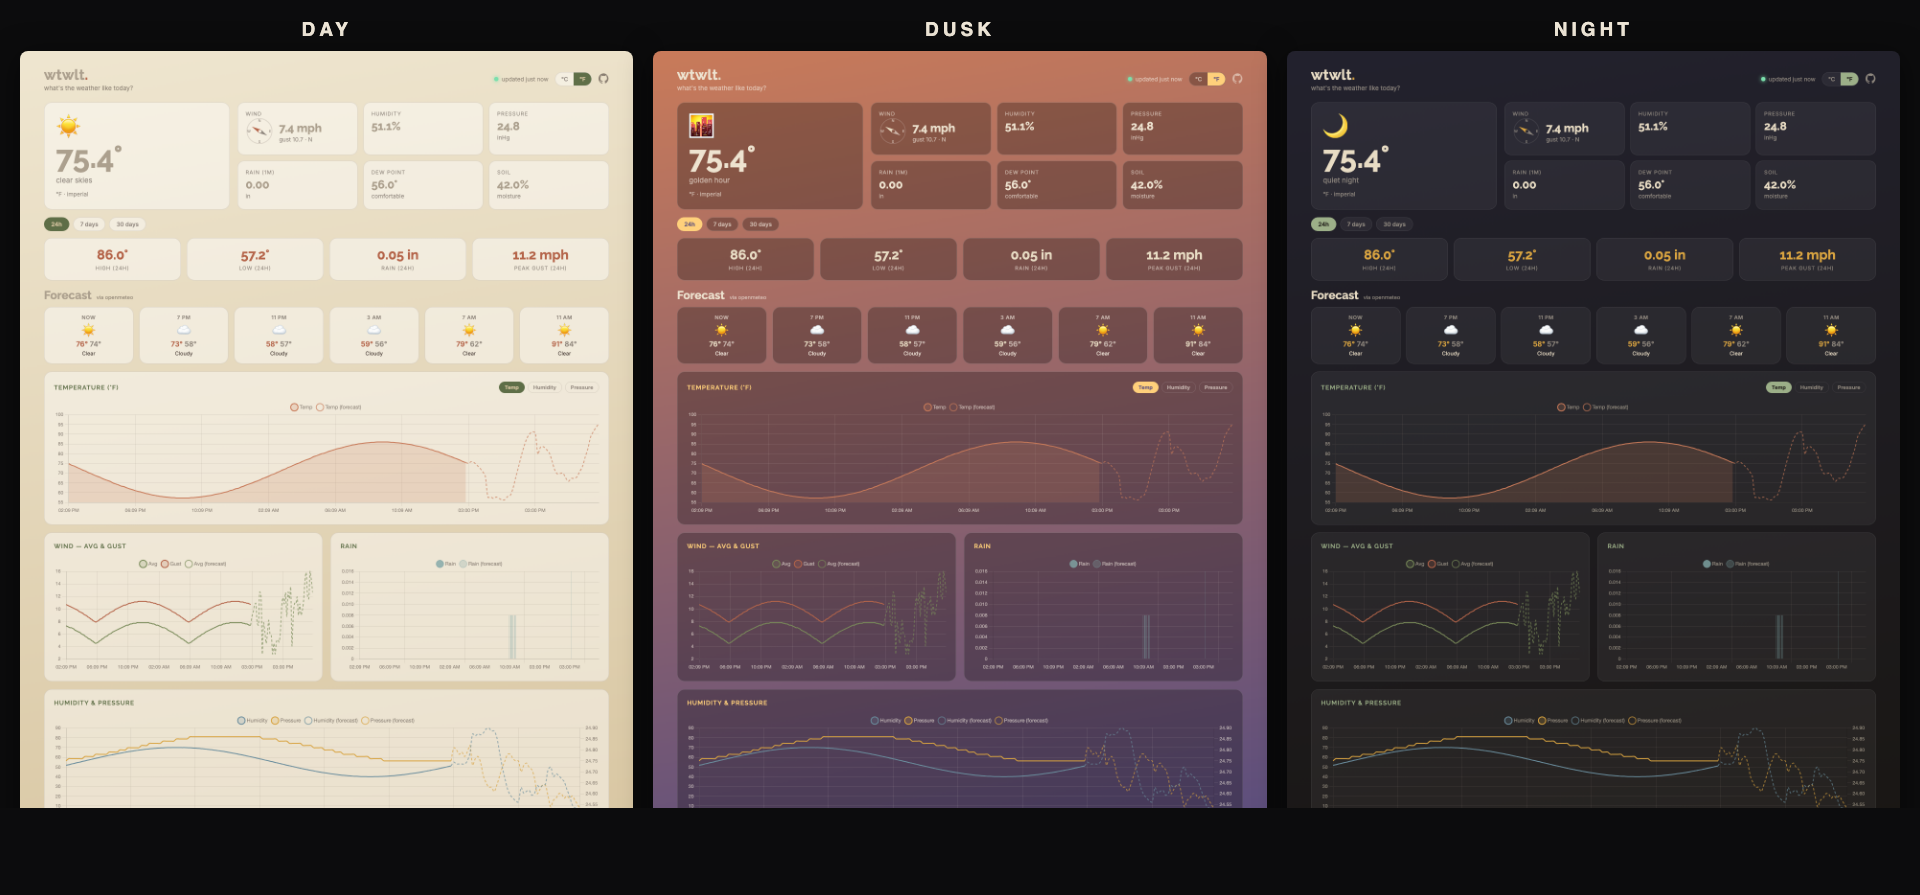
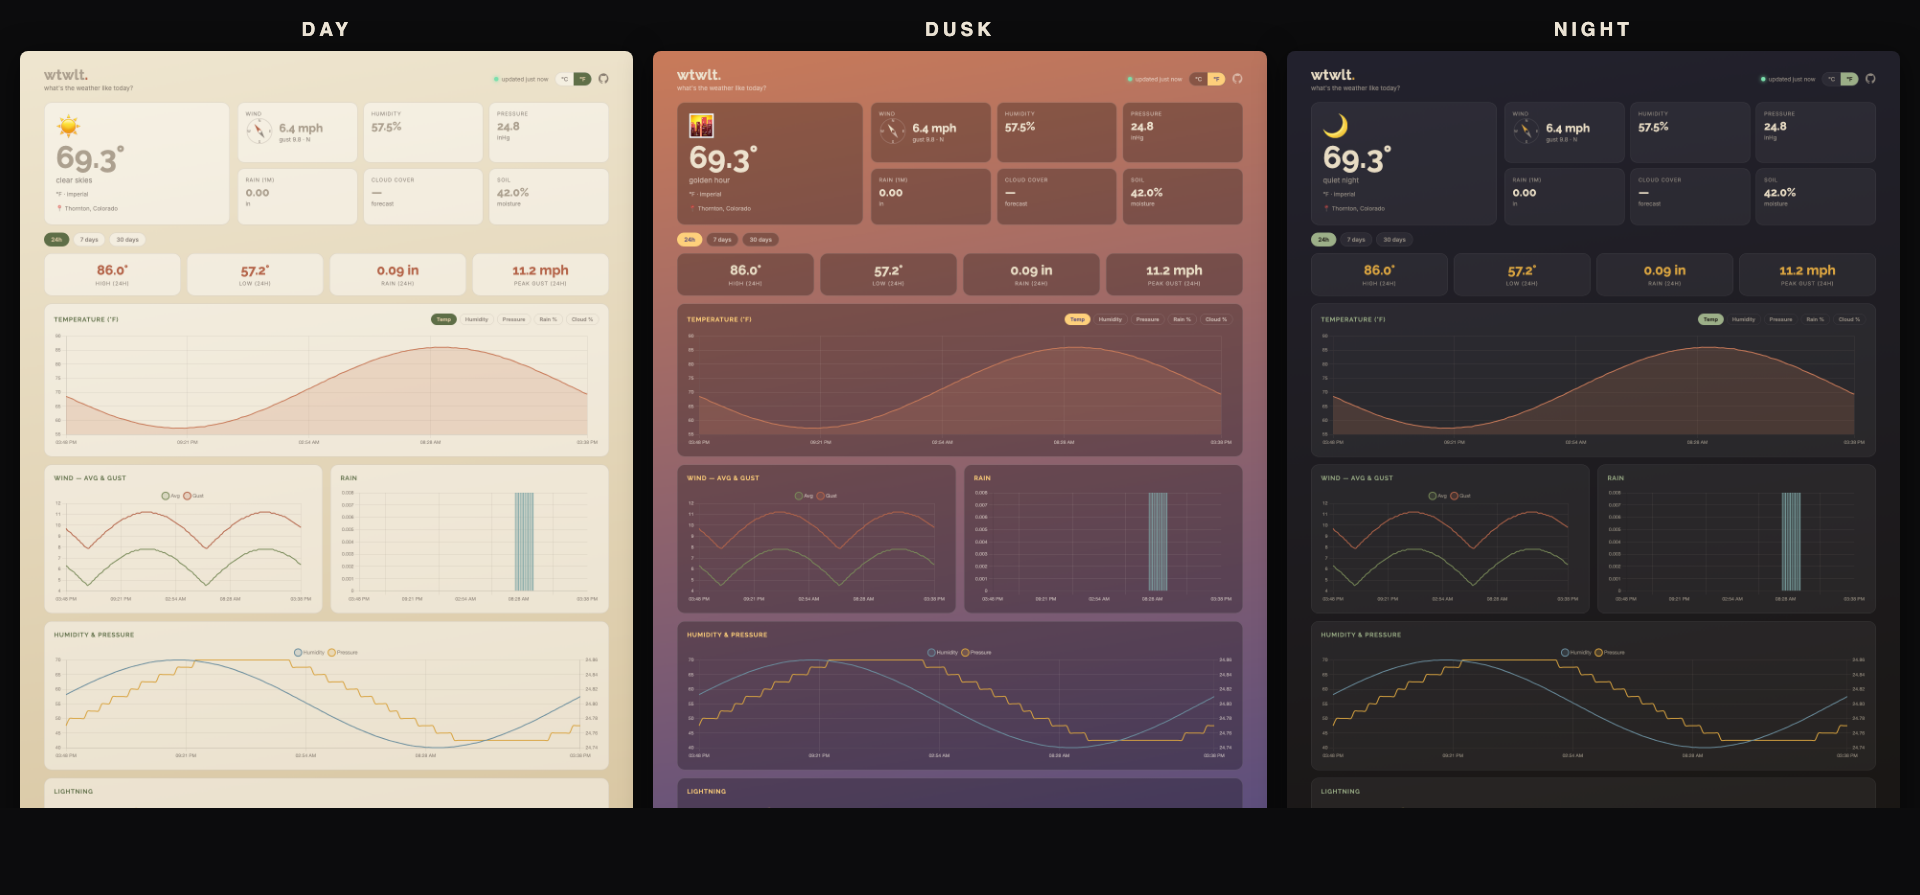
📖 README cleanup: Mermaid architecture, forecast section, fresh montage
- Replace the drifting ASCII architecture diagram with a Mermaid flowchart
  (renders aligned on GitHub) that also shows the keyless forecast provider.
- Add a Forecast section (overlay, tiles, rain-chance/cloud lead charts,
  coarse geocoded location, provider/coords config, coords never sent to client).
- Fix the stale pin map (wind speed GPIO 14, soil GPIO 34 + power-gate, AS3935
  INT GPIO 17) to match config.h; drop the unpopulated VEML6075 row.
- Regenerate the day/dusk/night themes montage from the current dashboard
  (cloud-cover tile, location label, forecast strip).

diff --git a/README.md b/README.md
@@ -17,17 +17,22 @@ which logs them to SQLite and serves an earth-toned dashboard + JSON API.
 
 ## Architecture
 
-```
-┌─────────────────────────┐         MQTT/WiFi         ┌──────────────────────────────┐
-│  Weather Station Node    │ ───────────────────────▶ │  Raspberry Pi                  │
-│  ESP32 + SparkFun        │   (Mosquitto broker on    │                                │
-│  MicroMod Weather        │    the Pi)                │  • Mosquitto broker            │
-│  Carrier Board           │                           │  • Go service: MQTT ingest →   │
-│                          │                           │    SQLite → dashboard / API    │
-│  Solar + battery, always │                           │    (public exposure via        │
-│  awake, publishes 1×/min │                           │     port-forward + DDNS +       │
-│                          │                           │     reverse proxy)             │
-└─────────────────────────┘                           └──────────────────────────────┘
+```mermaid
+flowchart LR
+    node["Weather Station Node<br/>ESP32 + SparkFun MicroMod Weather Carrier<br/>solar + battery, always awake"]
+
+    subgraph pi [Raspberry Pi]
+        broker["Mosquitto broker"]
+        go["Go service<br/>MQTT ingest → SQLite<br/>hourly/daily rollups + retention<br/>dashboard + JSON API"]
+        broker --> go
+    end
+
+    fc["Forecast provider<br/>Open-Meteo / NWS, keyless"]
+    clients["Browser / API clients"]
+
+    node -->|"MQTT / WiFi · 1 msg/min + lightning"| broker
+    fc -->|"HTTPS · hourly"| go
+    go -->|"public: port-forward + DDNS + reverse proxy"| clients
 ```
 
 **Data flow:** sensors → ESP32 samples @1 Hz → aggregates over 60 s → publishes
@@ -35,7 +40,7 @@ one JSON message per minute (plus event-driven lightning) to MQTT → the Go
 service on the Pi subscribes, persists to SQLite (downsampling old data into
 hourly/daily rollups), and serves the dashboard + API that read it. Separately,
 the service polls a keyless forecast provider and stores the projection in its
-own table for the dashboard's forecast overlay.
+own table for the dashboard's forecast overlay and tiles.
 
 ## Hardware
 
@@ -57,11 +62,11 @@ An **ESP32** (MicroMod form factor) on a **SparkFun MicroMod Weather Carrier**:
 | Signal | Pin | Bus / notes |
 |--------|-----|-------------|
 | Wind direction (vane) | GPIO 35 (A1) | ADC1 — WiFi-safe analog |
-| Wind speed (anemometer) | GPIO 23 (D0) | digital, interrupt |
+| Wind speed (anemometer) | GPIO 14 (D0) | digital, interrupt |
 | Rain gauge | GPIO 27 (D1) | digital, interrupt |
-| Soil moisture | GPIO 39 (A0) | ADC1 analog terminal |
-| AS3935 lightning | CS = GPIO 12 | SPI; INT pin to verify on the bench |
-| BME280 / VEML6075 | I²C | 0x77 / 0x10 |
+| Soil moisture | GPIO 34 (A0) | ADC1 analog; power-gated via GPIO 4 |
+| AS3935 lightning | CS = GPIO 12, INT = GPIO 17 | SPI |
+| BME280 | I²C | 0x77 |
 
 Pins, cadence, and calibration constants live in
 [`firmware/include/config.h`](firmware/include/config.h).
@@ -76,6 +81,28 @@ measured history, plus a row of **forecast condition tiles** (icon, high/low,
 condition) — 4-hour segments on the 24h view, daily on the longer ranges:
 
 ![wtwlt dashboard shown in day, dusk, and night themes](docs/dashboard-themes.png)
+
+## Forecast
+
+Alongside its own measurements, the station shows a near-term forecast pulled
+from a **keyless, no-signup provider** — **Open-Meteo** (default) or
+**NWS/NOAA**. The Go service polls it on a timer and stores it in a separate
+table (sensor data stays measurement-only); the dashboard then renders it as:
+
+- a **dashed, muted overlay** that continues each chart past "now" so projected
+  temperature, humidity, pressure, wind and precipitation read as one line with
+  the measured history (the tail length adapts to how much history is shown);
+- **condition tiles** — icon, high/low and a short description, in 4-hour
+  segments on the 24h view and daily on the longer ranges;
+- two forward-looking **lead-chart options**, *Rain chance* and *Cloud cover*
+  (Open-Meteo only; NWS supplies precip probability but no cloud cover).
+
+Set `WTWLT_LAT`/`WTWLT_LON` to enable it (leave them blank to turn it off);
+`WTWLT_FORECAST_PROVIDER` selects the source. The coordinates are reverse-geocoded
+(keyless OpenStreetMap Nominatim) to a coarse city/state label shown on the
+dashboard — the **exact coordinates are never sent to the browser**. Units, the
+unit toggle, and the `units=` API param apply to forecast values too. Details in
+[`server/README.md`](server/README.md).
 
 ## MQTT data contract
 